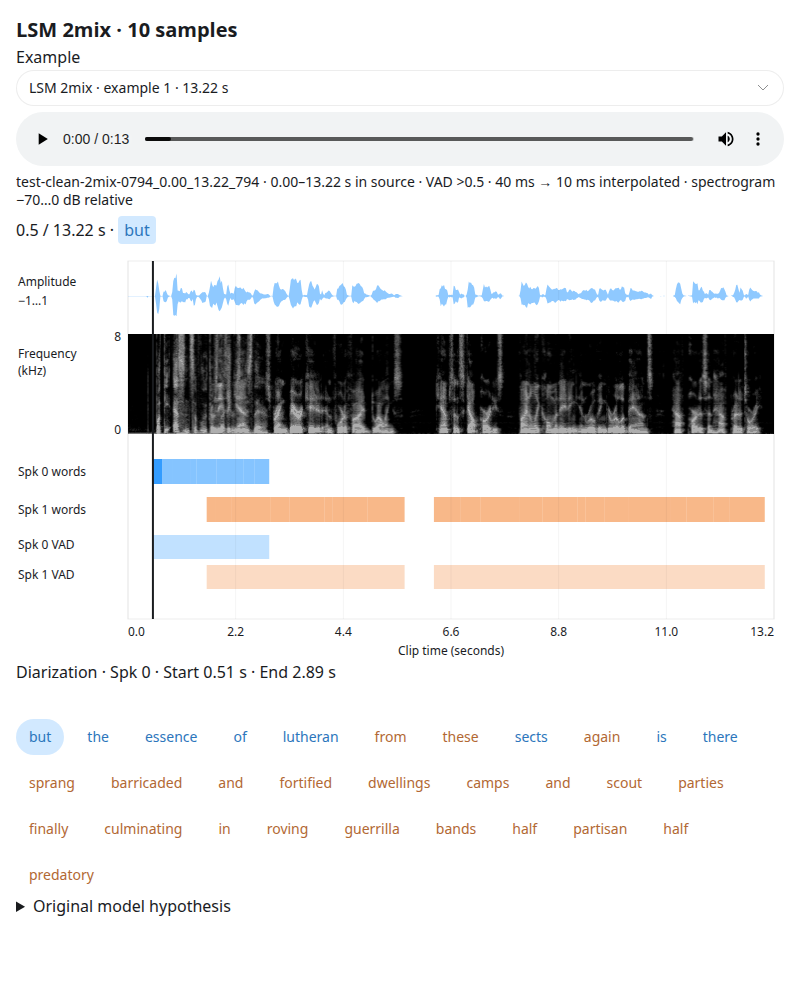
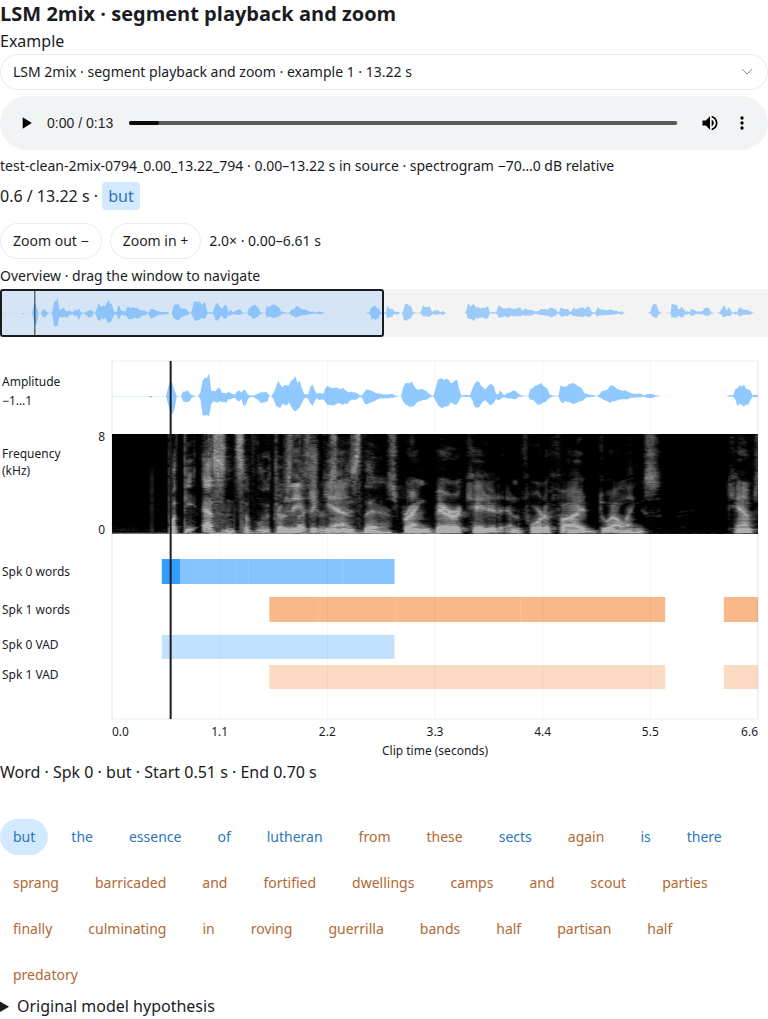
Add bounded segment playback and synchronized timeline zoom

diff --git a/speech_timestamp_viewer/templates/viewer.html b/speech_timestamp_viewer/templates/viewer.html
@@ -4,8 +4,18 @@
   <audio id="ctc-audio" controls preload="metadata" style="width:100%"></audio>
   <div id="ctc-caption" class="text-small"></div>
   <div id="ctc-active" aria-live="off"></div>
+  <div class="viz-row" style="display:flex;flex-wrap:wrap;align-items:center;gap:8px;margin:8px 0">
+    <button type="button" class="btn" id="ctc-zoom-out">Zoom out −</button>
+    <button type="button" class="btn" id="ctc-zoom-in">Zoom in +</button>
+    <span id="ctc-zoom-label" class="text-small tabular-nums" aria-live="polite"></span>
+  </div>
+  <div class="text-small">Overview · drag the window to navigate</div>
+  <div id="ctc-nav">
+    <svg id="ctc-overview" aria-hidden="true"></svg>
+    <button type="button" id="ctc-nav-window" class="cursor-interaction" aria-label="Visible time window. Use arrow keys to pan; Home and End to reach the edges."></button>
+  </div>
   <svg id="ctc-chart" role="img" aria-label="Waveform, spectrogram, speaker word intervals and native diarization with synchronized playhead"></svg>
-  <div id="ctc-detail" class="tabular-nums" aria-live="polite">Click a word or diarization segment to show start and end.</div>
+  <div id="ctc-detail" class="tabular-nums" aria-live="polite">Click a word or diarization segment to play that interval.</div>
   <div id="ctc-transcript" class="viz-row"></div>
   <details><summary>Original model hypothesis</summary><p id="ctc-hypothesis" style="overflow-wrap:anywhere"></p></details>
 </div>
@@ -19,6 +29,9 @@
 #__ROOT_ID__ .ctc-word{color:color-mix(in srgb,var(--speaker-color) 70%,var(--foreground)) !important;background:transparent !important;font-weight:500}
 #__ROOT_ID__ .ctc-word[aria-pressed="true"],#__ROOT_ID__ .ctc-word:hover,#__ROOT_ID__ .ctc-live-word{background:color-mix(in srgb,var(--speaker-color) 22%,transparent) !important}
 #__ROOT_ID__ .ctc-live-word{padding:3px 6px;border-radius:4px}
+#__ROOT_ID__ #ctc-nav{height:48px;position:relative;margin:4px 0 12px;touch-action:none;background:color-mix(in srgb,var(--foreground) 5%,transparent)}
+#__ROOT_ID__ #ctc-overview{display:block;width:100%;height:48px;pointer-events:none}
+#__ROOT_ID__ #ctc-nav-window{box-sizing:border-box;position:absolute;top:0;height:100%;min-width:0;padding:0;border:2px solid var(--foreground);border-radius:3px;background:color-mix(in srgb,var(--viz-series-1) 15%,transparent);touch-action:none}
 </style>
 <script>
 (()=>{
@@ -26,7 +39,10 @@ const examples=__EXAMPLES__;
 const root=document.getElementById('__ROOT_ID__');
 const select=root.querySelector('#ctc-sample'),audio=root.querySelector('#ctc-audio'),svg=root.querySelector('#ctc-chart');
 const caption=root.querySelector('#ctc-caption'),active=root.querySelector('#ctc-active'),detail=root.querySelector('#ctc-detail'),transcript=root.querySelector('#ctc-transcript');
+const nav=root.querySelector('#ctc-nav'),overview=root.querySelector('#ctc-overview'),navWindow=root.querySelector('#ctc-nav-window');
+const zoomIn=root.querySelector('#ctc-zoom-in'),zoomOut=root.querySelector('#ctc-zoom-out'),zoomLabel=root.querySelector('#ctc-zoom-label');
 const NS='http://www.w3.org/2000/svg';let sample,cursor,rects=[],buttons=[],left=112,right=10,width=736,height=0;
+let viewStart=0,viewSpan=1,plot,overviewCursor,segment=null,stopTimer=0,playRequest=0,drag=null;
 const clockText=document.createTextNode(''),liveWords=document.createElement('span');
 active.replaceChildren(clockText,liveWords);
 let lastWords='',lastClock='';
@@ -34,21 +50,66 @@ const categories=[...new Set(examples.flatMap(e=>[...e.diar.map(d=>String(d.spea
 const color=s=>`var(--viz-series-${Math.max(0,categories.indexOf(String(s)))%6+1})`;
 function el(tag,attrs={},text){const e=document.createElementNS(NS,tag);for(const[k,v]of Object.entries(attrs))e.setAttribute(k,v);if(text!==undefined)e.textContent=text;return e;}
 function label(text,x,y,extra={}){svg.append(el('text',{x,y,fill:'var(--foreground)','font-size':12,...extra},text));}
-function x(t){return left+(width-left-right)*t/sample.duration;}
-function seek(t){audio.currentTime=Math.max(0,Math.min(sample.duration,t));tick();}
+function x(t){return left+(width-left-right)*(t-viewStart)/viewSpan;}
+function persist(selection){
+ try{Promise.resolve(window.openai?.setWidgetState?.({modelContent:{example:sample.id,group:sample.group,offset:sample.offset,selection},privateContent:{index:Number(select.value),viewer:root.id,viewStart,viewSpan}})).catch(()=>{});}catch{}
+}
+function clearSegment(){clearTimeout(stopTimer);stopTimer=0;segment=null;playRequest++;}
+function seek(t){clearSegment();audio.currentTime=Math.max(0,Math.min(sample.duration,t));tick();}
+function finishSegment(){
+ const end=segment.end;clearSegment();audio.pause();audio.currentTime=end;tick();
+}
+function scheduleStop(){
+ clearTimeout(stopTimer);
+ if(!segment||audio.paused||audio.seeking)return;
+ const remaining=(segment.end-audio.currentTime)/audio.playbackRate;
+ if(remaining<=0){finishSegment();return;}
+ stopTimer=setTimeout(scheduleStop,Math.max(10,remaining*1000));
+}
+function playSegment(item){
+ clearSegment();audio.pause();segment={start:item.start,end:item.end};
+ audio.currentTime=item.start;
+ if(item.start<viewStart||item.start>=viewStart+viewSpan)setView(item.start-viewSpan*.2,viewSpan);
+ tick();
+ if(item.end<=item.start){clearSegment();return;}
+ const request=playRequest;
+ audio.play().then(()=>{if(request===playRequest)scheduleStop();}).catch(error=>{
+  if(request===playRequest){clearSegment();detail.textContent+=` · Playback unavailable: ${error.message}`;}
+ });
+}
+function setView(start,span){
+ viewSpan=Math.max(Math.min(.25,sample.duration),Math.min(sample.duration,span));
+ viewStart=Math.max(0,Math.min(sample.duration-viewSpan,start));draw();
+}
+function changeZoom(factor){
+ const center=audio.currentTime>=viewStart&&audio.currentTime<=viewStart+viewSpan?audio.currentTime:viewStart+viewSpan/2;
+ const span=Math.max(Math.min(.25,sample.duration),Math.min(sample.duration,viewSpan*factor));
+ setView(center-span/2,span);persist();
+}
+function drawOverview(){
+ const w=Math.max(1,nav.getBoundingClientRect().width),nx=t=>w*t/sample.duration;
+ overview.replaceChildren();overview.setAttribute('viewBox',`0 0 ${w} 48`);
+ const pts=sample.wave.map((a,i)=>`${nx(i/(sample.wave.length-1)*sample.duration)},${24-a[1]*20}`).concat(sample.wave.map((a,i)=>`${nx(i/(sample.wave.length-1)*sample.duration)},${24-a[0]*20}`).reverse()).join(' ');
+ overview.append(el('polygon',{points:pts,fill:'var(--viz-series-1)','fill-opacity':.45}));
+ overviewCursor=el('line',{x1:nx(audio.currentTime),x2:nx(audio.currentTime),y1:0,y2:48,stroke:'var(--foreground)'});overview.append(overviewCursor);
+ navWindow.style.left=`${100*viewStart/sample.duration}%`;navWindow.style.width=`${100*viewSpan/sample.duration}%`;
+ navWindow.setAttribute('aria-label',`Visible time ${viewStart.toFixed(2)} to ${(viewStart+viewSpan).toFixed(2)} seconds. Arrow keys pan; Home and End reach edges.`);
+ zoomLabel.textContent=`${(sample.duration/viewSpan).toFixed(1)}× · ${viewStart.toFixed(2)}–${(viewStart+viewSpan).toFixed(2)} s`;
+ zoomOut.disabled=viewSpan>=sample.duration-1e-9;zoomIn.disabled=viewSpan<=Math.min(.25,sample.duration)+1e-9;
+}
 function showSegment(item,type,speaker){
- seek(item.start);
  detail.textContent=`${type} · Spk ${speaker}${item.word?' · '+item.word:''} · Start ${item.start.toFixed(2)} s · End ${item.end.toFixed(2)} s${sample.offset?` · Source ${(item.start+sample.offset).toFixed(2)}–${(item.end+sample.offset).toFixed(2)} s`:''}${item.clipped?' · clipped at excerpt edge':''}`;
- try{Promise.resolve(window.openai?.setWidgetState?.({modelContent:{example:sample.id,group:sample.group,offset:sample.offset,selection:{type,speaker,word:item.word,start:item.start,end:item.end}},privateContent:{index:Number(select.value),viewer:root.id}})).catch(()=>{});}catch{}
+ playSegment(item);persist({type,speaker,word:item.word,start:item.start,end:item.end});
 }
 function addSegment(rect,item,type,speaker){
- svg.append(rect);
+ if(item.end<=viewStart||item.start>=viewStart+viewSpan)return;
+ plot.append(rect);
  const hit=el('foreignObject',{x:rect.getAttribute('x'),y:rect.getAttribute('y'),width:rect.getAttribute('width'),height:rect.getAttribute('height')});
  const button=document.createElement('button');button.type='button';button.className='segment-button cursor-interaction';
  button.dataset.segmentType=type;button.dataset.start=item.start;button.dataset.end=item.end;
  button.setAttribute('aria-label',`${type}, speaker ${speaker}${item.word?', '+item.word:''}, start ${item.start.toFixed(2)} seconds, end ${item.end.toFixed(2)} seconds`);
  button.setAttribute('data-tooltip',button.getAttribute('aria-label'));
- button.addEventListener('click',e=>{e.stopPropagation();showSegment(item,type,speaker);});hit.append(button);svg.append(hit);
+ button.addEventListener('click',e=>{e.stopPropagation();showSegment(item,type,speaker);});hit.append(button);plot.append(hit);
 }
 function draw(){
  if(!sample)return;
@@ -57,32 +118,37 @@ function draw(){
  const cols=[...new Set(sample.diar.map(d=>d.speaker))].sort();
  height=274+speakers.length*38+cols.length*30;
  svg.setAttribute('viewBox',`0 0 ${width} ${height}`);svg.style.height=height+'px';
+ svg.dataset.viewStart=viewStart;svg.dataset.viewEnd=viewStart+viewSpan;
+ const defs=el('defs'),clip=el('clipPath',{id:root.id+'-clip'});
+ clip.append(el('rect',{x:left,y:12,width:width-left-right,height:height-52}));defs.append(clip);svg.append(defs);
+ plot=el('g',{'clip-path':`url(#${root.id}-clip)`});svg.append(plot);
  svg.append(el('rect',{x:left,y:12,width:width-left-right,height:height-52,fill:'none',stroke:'var(--border)'}));
  label('Amplitude',2,37);label('−1…1',2,56);
  const pts=sample.wave.map((a,i)=>`${x(i/(sample.wave.length-1)*sample.duration)},${47-a[1]*30}`).concat(sample.wave.map((a,i)=>`${x(i/(sample.wave.length-1)*sample.duration)},${47-a[0]*30}`).reverse()).join(' ');
- svg.append(el('polygon',{points:pts,fill:'var(--viz-series-1)','fill-opacity':.55}));
+ plot.append(el('polygon',{points:pts,fill:'var(--viz-series-1)','fill-opacity':.55,'data-track':'waveform'}));
  label('Frequency',2,109);label('(kHz)',2,126);label('8',left-7,92,{'text-anchor':'end'});label('0',left-7,185,{'text-anchor':'end'});
- svg.append(el('image',{href:sample.spectrogram,x:left,y:85,width:width-left-right,height:100,preserveAspectRatio:'none'}));
+ plot.append(el('image',{href:sample.spectrogram,x:x(0),y:85,width:(width-left-right)*sample.duration/viewSpan,height:100,preserveAspectRatio:'none','data-track':'spectrogram'}));
  let y=210;
  for(const s of speakers){
   const col=sample.mapping[String(s)];label(`Spk ${s} words`,2,y+17);
   for(const w of sample.words.filter(w=>w.speaker===s)){
-   const r=el('rect',{x:x(w.start),y,width:Math.max(1,x(w.end)-x(w.start)),height:25,fill:color(col??s),'fill-opacity':.6,'data-chart-hit':'','data-tooltip':`${w.word} · Spk ${s} · ${w.start.toFixed(2)}–${w.end.toFixed(2)} s${w.clipped?' · clipped at excerpt edge':''}`});
+   const r=el('rect',{x:x(w.start),y,width:Math.max(0,x(w.end)-x(w.start)),height:25,fill:color(col??s),'fill-opacity':.6,'data-track':'word','data-chart-hit':'','data-tooltip':`${w.word} · Spk ${s} · ${w.start.toFixed(2)}–${w.end.toFixed(2)} s${w.clipped?' · clipped at excerpt edge':''}`});
    addSegment(r,w,'Word',s);rects.push([r,w]);
   } y+=38;
  }
  for(const c of cols){
   const tags=Object.entries(sample.mapping).filter(([s,v])=>v===c).map(([s])=>s);
   label(tags.length?`Spk ${tags.join('/')} VAD`:`Diar ${c} VAD`,2,y+14);
-  for(const d of sample.diar.filter(d=>d.speaker===c))addSegment(el('rect',{x:x(d.start),y,width:Math.max(1,x(d.end)-x(d.start)),height:24,fill:color(c),'fill-opacity':.3}),d,'Diarization',tags.length?tags.join('/'):c);
+  for(const d of sample.diar.filter(d=>d.speaker===c))addSegment(el('rect',{x:x(d.start),y,width:Math.max(0,x(d.end)-x(d.start)),height:24,fill:color(c),'fill-opacity':.3,'data-track':'diarization'}),d,'Diarization',tags.length?tags.join('/'):c);
   y+=30;
  }
  const n=width<450?3:6;
- for(let i=0;i<=n;i++){const t=sample.duration*i/n;svg.append(el('line',{x1:x(t),x2:x(t),y1:12,y2:height-40,stroke:'var(--border)','stroke-width':.6,'pointer-events':'none'}));label(t.toFixed(1),x(t),height-23,{'text-anchor':i===0?'start':i===n?'end':'middle'});}
+ for(let i=0;i<=n;i++){const t=viewStart+viewSpan*i/n;svg.append(el('line',{x1:x(t),x2:x(t),y1:12,y2:height-40,stroke:'var(--border)','stroke-width':.6,'pointer-events':'none'}));label(t.toFixed(viewSpan<2?2:1),x(t),height-23,{'text-anchor':i===0?'start':i===n?'end':'middle'});}
  label('Clip time (seconds)',left+(width-left-right)/2,height-4,{'text-anchor':'middle','class':'axis-title','data-axis':'x'});
- cursor=el('line',{x1:x(audio.currentTime),x2:x(audio.currentTime),y1:12,y2:height-40,stroke:'var(--foreground)','stroke-width':2,'pointer-events':'none'});svg.append(cursor);tick();
+ cursor=el('line',{x1:x(audio.currentTime),x2:x(audio.currentTime),y1:12,y2:height-40,stroke:'var(--foreground)','stroke-width':2,'pointer-events':'none'});plot.append(cursor);drawOverview();tick();
 }
-function tick(){if(!sample)return;const t=audio.currentTime||0;if(cursor){cursor.setAttribute('x1',x(t));cursor.setAttribute('x2',x(t));}
+function tick(){if(!sample)return;if(segment&&audio.currentTime>=segment.end){finishSegment();return;}const t=audio.currentTime||0;if(cursor){cursor.setAttribute('x1',x(t));cursor.setAttribute('x2',x(t));}
+ if(overviewCursor){const p=nav.getBoundingClientRect().width*t/sample.duration;overviewCursor.setAttribute('x1',p);overviewCursor.setAttribute('x2',p);}
  const clock=`${t.toFixed(1)} / ${sample.duration.toFixed(2)} s · `;
  if(clock!==lastClock){clockText.nodeValue=clock;lastClock=clock;}
  const now=sample.words.filter(w=>w.start<=t&&t<w.end),key=JSON.stringify(now);
@@ -94,26 +160,40 @@ function tick(){if(!sample)return;const t=audio.currentTime||0;if(cursor){cursor
  for(const[r,w]of rects){const v=w.start<=t&&t<w.end?'1':'0.6';if(r.getAttribute('fill-opacity')!==v)r.setAttribute('fill-opacity',v);}
  for(const[b,w]of buttons){const v=String(w.start<=t&&t<w.end);if(b.getAttribute('aria-pressed')!==v)b.setAttribute('aria-pressed',v);}
 }
-function load(index){if(!Number.isInteger(index)||!examples[index])return;audio.pause();sample=examples[index];select.value=String(index);audio.src=sample.audio;audio.load();
+function load(index){if(!Number.isInteger(index)||!examples[index])return;clearSegment();audio.pause();sample=examples[index];viewStart=0;viewSpan=sample.duration;lastWords='';lastClock='';select.value=String(index);audio.src=sample.audio;audio.load();
  caption.style.overflowWrap='anywhere';caption.textContent=`${sample.id} · ${sample.offset.toFixed(2)}–${(sample.offset+sample.duration).toFixed(2)} s in source · spectrogram −70…0 dB relative`;
  root.querySelector('#ctc-hypothesis').textContent=sample.hypothesis;transcript.replaceChildren();buttons=[];
- detail.textContent='Click a word or diarization segment to show start and end.';
+ detail.textContent='Click a word or diarization segment to play that interval.';
  for(const w of sample.words){const b=document.createElement('button');b.type='button';b.className='btn btn-ghost ctc-word';b.style.setProperty('--speaker-color',color(sample.mapping[String(w.speaker)]??w.speaker));b.textContent=w.word;b.setAttribute('aria-label',`Speaker ${w.speaker}: ${w.word}`);b.setAttribute('aria-pressed','false');b.addEventListener('click',()=>showSegment(w,'Word',w.speaker));transcript.append(b);buttons.push([b,w]);}draw();
 }
 examples.forEach((s,i)=>{const o=document.createElement('option');o.value=i;o.textContent=`${s.group} · example ${s.number} · ${s.duration.toFixed(2)} s`;select.append(o);});
-select.addEventListener('change',()=>{
- load(Number(select.value));
- try{
-  const save=window.openai?.setWidgetState?.({modelContent:{example:sample.id,group:sample.group,offset:sample.offset},privateContent:{index:Number(select.value),viewer:root.id}});
-  Promise.resolve(save).catch(()=>{});
- }catch{/* Optional host persistence must not interrupt playback. */}
+select.addEventListener('change',()=>{load(Number(select.value));persist();});
+zoomIn.addEventListener('click',()=>changeZoom(.5));zoomOut.addEventListener('click',()=>changeZoom(2));
+nav.addEventListener('pointerdown',e=>{
+ if(e.button!==0)return;e.preventDefault();nav.setPointerCapture(e.pointerId);
+ const bounds=nav.getBoundingClientRect(),time=(e.clientX-bounds.left)/bounds.width*sample.duration;
+ if(e.target!==navWindow)setView(time-viewSpan/2,viewSpan);
+ drag={pointer:e.pointerId,x:e.clientX,start:viewStart};navWindow.focus();
 });
-svg.addEventListener('click',e=>{const p=e.clientX-svg.getBoundingClientRect().left;if(p>=left&&p<=width-right)seek((p-left)/(width-left-right)*sample.duration);});
-audio.addEventListener('timeupdate',tick);audio.addEventListener('seeked',tick);audio.addEventListener('error',()=>{detail.textContent='Audio playback failed.';});
+nav.addEventListener('pointermove',e=>{if(drag&&drag.pointer===e.pointerId)setView(drag.start+(e.clientX-drag.x)/nav.getBoundingClientRect().width*sample.duration,viewSpan);});
+function stopDrag(){if(drag){drag=null;persist();}}
+nav.addEventListener('pointerup',stopDrag);nav.addEventListener('pointercancel',stopDrag);nav.addEventListener('lostpointercapture',stopDrag);
+navWindow.addEventListener('keydown',e=>{
+ const delta={ArrowLeft:-viewSpan/10,ArrowRight:viewSpan/10,PageUp:-viewSpan,PageDown:viewSpan};
+ if(e.key in delta||e.key==='Home'||e.key==='End'){
+  e.preventDefault();setView(e.key==='Home'?0:e.key==='End'?sample.duration-viewSpan:viewStart+delta[e.key],viewSpan);persist();
+ }
+});
+svg.addEventListener('click',e=>{const p=e.clientX-svg.getBoundingClientRect().left;if(p>=left&&p<=width-right)seek(viewStart+(p-left)/(width-left-right)*viewSpan);});
+audio.addEventListener('timeupdate',tick);audio.addEventListener('seeked',()=>{tick();scheduleStop();});
+audio.addEventListener('seeking',()=>{clearTimeout(stopTimer);if(segment&&(audio.currentTime<segment.start-1e-6||audio.currentTime>segment.end+1e-6))clearSegment();});
+audio.addEventListener('playing',scheduleStop);audio.addEventListener('ratechange',scheduleStop);
+audio.addEventListener('ended',()=>{clearSegment();tick();});
+audio.addEventListener('error',()=>{clearSegment();detail.textContent='Audio playback failed.';});
 let animation=0;
 function animate(){animation=0;if(!root.isConnected||audio.paused)return;tick();animation=requestAnimationFrame(animate);}
 audio.addEventListener('play',()=>{cancelAnimationFrame(animation);animation=requestAnimationFrame(animate);});
-audio.addEventListener('pause',()=>{cancelAnimationFrame(animation);animation=0;});
+audio.addEventListener('pause',()=>{cancelAnimationFrame(animation);animation=0;clearTimeout(stopTimer);});
 let resizeFrame=0;
 function scheduleDraw(){
  cancelAnimationFrame(resizeFrame);
@@ -121,7 +201,12 @@ function scheduleDraw(){
 }
 if(typeof ResizeObserver==='function')new ResizeObserver(scheduleDraw).observe(svg);
 else window.addEventListener('resize',scheduleDraw);
-window.addEventListener('openai:set_globals',e=>{const state=e.detail?.globals?.widgetState?.privateContent;const i=state?.index;if(state?.viewer===root.id&&Number.isInteger(i)&&examples[i]&&sample!==examples[i])load(i);});
-const state=window.openai?.widgetState?.privateContent,saved=state?.index;load(state?.viewer===root.id&&Number.isInteger(saved)&&examples[saved]?saved:0);
+function restore(state){
+ if(state?.viewer!==root.id||!Number.isInteger(state.index)||!examples[state.index])return;
+ if(sample!==examples[state.index])load(state.index);
+ if(Number.isFinite(state.viewStart)&&Number.isFinite(state.viewSpan))setView(state.viewStart,state.viewSpan);
+}
+window.addEventListener('openai:set_globals',e=>restore(e.detail?.globals?.widgetState?.privateContent));
+load(0);restore(window.openai?.widgetState?.privateContent);
 })();
 </script>

diff --git a/tests/browser_navigation.py b/tests/browser_navigation.py
@@ -1,0 +1,88 @@
+"""Regression coverage for bounded playback, zoom, shared scales and overview navigation."""
+
+import argparse
+from pathlib import Path
+
+from playwright.sync_api import sync_playwright
+
+parser = argparse.ArgumentParser(description=__doc__)
+parser.add_argument('page', type=Path, help='Generated four-second synthetic demo index.html')
+parser.add_argument('--browser')
+args = parser.parse_args()
+with sync_playwright() as p:
+    browser = p.chromium.launch(headless=True, **({'executable_path': args.browser} if args.browser else {}))
+    page = browser.new_page(viewport={'width': 800, 'height': 1100})
+    errors = []
+    page.on('pageerror', lambda error: errors.append(str(error)))
+    page.goto(args.page.resolve().as_uri())
+    page.wait_for_function('document.querySelector("audio").readyState >= 2')
+    for selector in (
+        'button[data-segment-type="Word"]',
+        'button[data-segment-type="Diarization"]',
+        '#ctc-transcript button',
+    ):
+        target = page.locator(selector).first
+        target.click()
+        page.wait_for_function('!document.querySelector("audio").paused', timeout=2000)
+        page.wait_for_function('document.querySelector("audio").paused', timeout=4000)
+        expected = 1.3 if 'Diarization' in selector else 0.8
+        assert abs(page.evaluate('document.querySelector("audio").currentTime') - expected) < 0.03
+    # Switching segments must cancel the old endpoint timer.
+    page.locator('button[data-segment-type="Word"]').first.click()
+    page.wait_for_timeout(50)
+    page.locator('button[data-segment-type="Diarization"]').first.click()
+    page.wait_for_function('document.querySelector("audio").paused', timeout=4000)
+    assert abs(page.evaluate('document.querySelector("audio").currentTime') - 1.3) < 0.03
+    # Resuming native playback after a segment finishes must not remain capped.
+    page.evaluate('document.querySelector("audio").play()')
+    page.wait_for_function('document.querySelector("audio").currentTime > 1.4')
+    page.evaluate('document.querySelector("audio").pause();document.querySelector("audio").currentTime=1')
+    page.wait_for_timeout(100)
+    image_width = page.locator('[data-track="spectrogram"]').evaluate('(e)=>Number(e.getAttribute("width"))')
+    word_width = page.locator('[data-track="word"]').first.evaluate('(e)=>Number(e.getAttribute("width"))')
+    page.locator('#ctc-zoom-in').click()
+    assert (
+        abs(
+            page.locator('[data-track="spectrogram"]').evaluate('(e)=>Number(e.getAttribute("width"))') / image_width
+            - 2
+        )
+        < 0.001
+    )
+    assert (
+        abs(
+            page.locator('[data-track="word"]').first.evaluate('(e)=>Number(e.getAttribute("width"))') / word_width - 2
+        )
+        < 0.001
+    )
+    assert page.locator('#ctc-nav-window').evaluate('(e)=>e.style.width') == '50%'
+    # Keyboard panning and pointer drag move the viewport, not the audio clock.
+    page.locator('#ctc-nav-window').focus()
+    page.keyboard.press('End')
+    assert float(page.locator('#ctc-chart').get_attribute('data-view-start')) == 2
+    assert abs(page.evaluate('document.querySelector("audio").currentTime') - 1) < 0.03
+    page.keyboard.press('Home')
+    box = page.locator('#ctc-nav-window').bounding_box()
+    page.mouse.move(box['x'] + box['width'] / 2, box['y'] + box['height'] / 2)
+    page.mouse.down()
+    page.mouse.move(box['x'] + box['width'], box['y'] + box['height'] / 2, steps=5)
+    page.mouse.up()
+    assert float(page.locator('#ctc-chart').get_attribute('data-view-start')) > 0.5
+    # All timeline layers share exactly the same coordinate transform.
+    page.locator('#ctc-nav-window').focus()
+    page.keyboard.press('Home')
+    for track in ('waveform', 'spectrogram', 'word', 'diarization'):
+        assert page.locator(f'[data-track="{track}"]').count() > 0
+    assert page.locator('[data-track="word"]').first.get_attribute('x') == page.locator(
+        '[data-track="diarization"]'
+    ).first.get_attribute('x')
+    page.locator('#ctc-zoom-out').click()
+    assert page.locator('#ctc-nav-window').evaluate('(e)=>e.style.width') == '100%'
+    for width in (390, 320):
+        page.set_viewport_size({'width': width, 'height': 1100})
+        page.wait_for_timeout(100)
+        assert page.evaluate('document.documentElement.scrollWidth <= innerWidth')
+    assert not errors, errors
+    browser.close()
+    print(
+        'PASS: automatic bounded playback, cancellation/resume, shared zoom, overview resize/drag/keyboard, mobile layout'
+    )

diff --git a/README.md b/README.md
@@ -6,9 +6,9 @@ model checkpoint, web server, or JavaScript build tool is required.
 
 ## Preview
 
-![LSM 2mix timestamp viewer showing audio controls, waveform, spectrogram, speaker-colored words, diarization segments and a selected segment's start/end times](docs/images/lsm-2mix-viewer.png)
+![LSM 2mix viewer at 2x zoom showing audio controls, a draggable overview window, waveform, spectrogram, speaker words, diarization and selected start/end times](docs/images/lsm-2mix-viewer.png)
 
-LSM 2mix example: clicking a word or diarization segment seeks the audio and displays
+LSM 2mix example: clicking a word or diarization segment plays that interval and displays
 its start/end times to two decimal places. This is a static screenshot; build the player
 below for synchronized playback and interactive inspection.
 
@@ -16,8 +16,10 @@ below for synchronized playback and interactive inspection.
 
 - Audio controls with a synchronized timeline cursor and simultaneous speaker-word highlighting.
 - Waveform, spectrogram (0–8 kHz, −70…0 dB relative), per-speaker words and VAD lanes.
-- Speaker-colored words; click a word, word interval, or diarization interval to seek.
+- Speaker-colored words; click a word, word interval, or diarization interval to play from its start to its end, then stop automatically.
 - A persistent **Start XX.YY s / End XX.YY s** readout. Playback does not overwrite the selection.
+- Horizontal zoom keeps waveform, spectrogram, words, diarization and cursor on one shared time scale.
+- A full-recording overview with a draggable visible-window indicator that shrinks as you zoom in.
 - Full recordings or excerpts; excerpt selections also display source-recording times.
 - An expandable original model hypothesis. Reference text is **never** substituted for predictions.
 - Self-contained browser output and size-bounded fragments for Codex inline visualization.
@@ -26,6 +28,16 @@ The viewer displays supplied timestamps unchanged, except for clipping to a requ
 It does **not** run ASR, forced alignment, interpolation, language normalization, or accuracy evaluation.
 Two-decimal display formatting does not imply 10 ms acoustic accuracy. `<ev:...>` and `<sty:...>`
 tokens are preserved as text. Diarization segments are supplied by you; the viewer does not threshold logits.
+
+## Playback and navigation
+
+- Click a word in the transcript or a word/VAD bar to play only that segment. Clicking another segment cancels the previous stop point.
+- Native audio controls play continuously after a segment finishes. Seeking in the main plot cancels the segment limit; pausing/resuming within a selected segment retains its endpoint.
+- **Zoom in + / Zoom out −** change the visible time span by a factor of two. The current playhead anchors zoom when visible; otherwise the viewport center is used. The minimum view span is 250 ms (or the full duration for shorter recordings).
+- Drag the overview's highlighted window to pan, or click elsewhere in the overview to center it there. This moves the view without changing playback position.
+- Focus the overview window and use **Left/Right** to pan, **Page Up/Down** for a full-window jump, or **Home/End** to reach either edge.
+- All four tracks use the same clipped time transform; off-screen bars cannot intercept clicks. Zoom magnifies the stored waveform/spectrogram preview; it does not recompute higher-resolution acoustic features.
+- Playback endpoints use browser media timing, not sample-accurate audio editing. The displayed start/end values remain the supplied timestamps.
 
 ## Install
 
@@ -150,12 +162,14 @@ python -m unittest discover -s tests -p 'test_*.py' -v
 python -m pip install -e '.[test]'
 python -m playwright install chromium
 python tests/browser_smoke.py output/demo/index.html
+python tests/browser_navigation.py output/demo/index.html
 # Or use installed Chrome:
 python tests/browser_smoke.py output/demo/index.html --browser /path/to/chrome
 ```
 
-The browser check verifies actual playback, word/VAD clicks, two-decimal readouts, keyboard
-interaction, waveform/spectrogram rendering and small-screen layout.
+The browser checks verify actual bounded playback, cancellation/resume, word/VAD clicks,
+two-decimal readouts, synchronized zoom, overview drag/keyboard navigation, waveform/spectrogram
+rendering and small-screen layout. `browser_navigation.py` uses the generated four-second synthetic demo.
 
 ## Maintenance and privacy
 

diff --git a/AGENTS.md b/AGENTS.md
@@ -18,7 +18,9 @@ Read README.md first. This repository is a viewer, not an ASR/alignment implemen
 
 - Display hypothesis words, never substitute ground-truth text. Preserve event/style tokens.
 - Keep all simultaneous active speakers highlighted. A single cursor follows the audio clock.
-- Clicking a word or diarization segment seeks and shows start/end with exactly two decimals.
+- Clicking a word or diarization segment plays only its start/end interval and shows exactly two decimals.
+- All tracks share one zoom/pan transform; the overview window width represents the visible duration.
+- Segment switches and sample switches cancel stale playback timers. Native continuous playback remains usable.
 - Keep selected details persistent during playback. Source times must be explicit for excerpts.
 - Do not distort chart dimensions. Support 320px layouts and keyboard-operated segment buttons.
 - Inline fragments stay below 1 MB; split at sample boundaries and reject oversized single samples.
